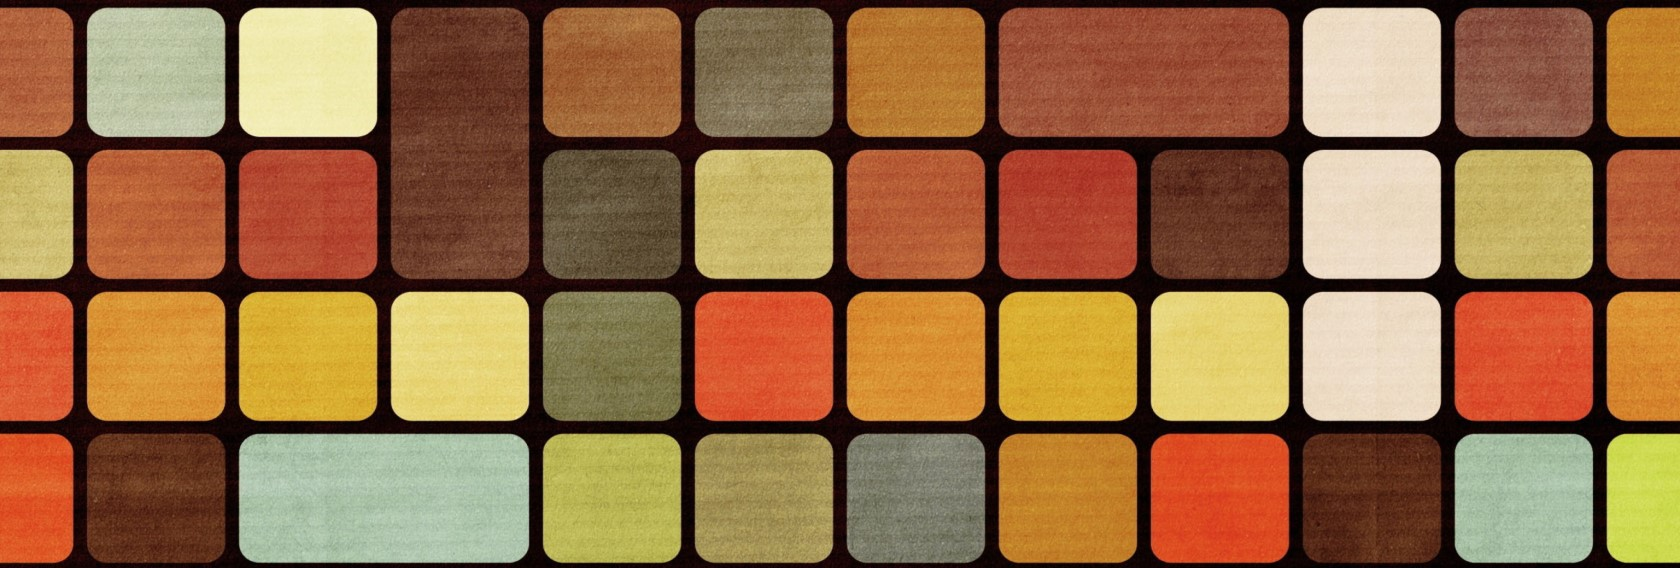
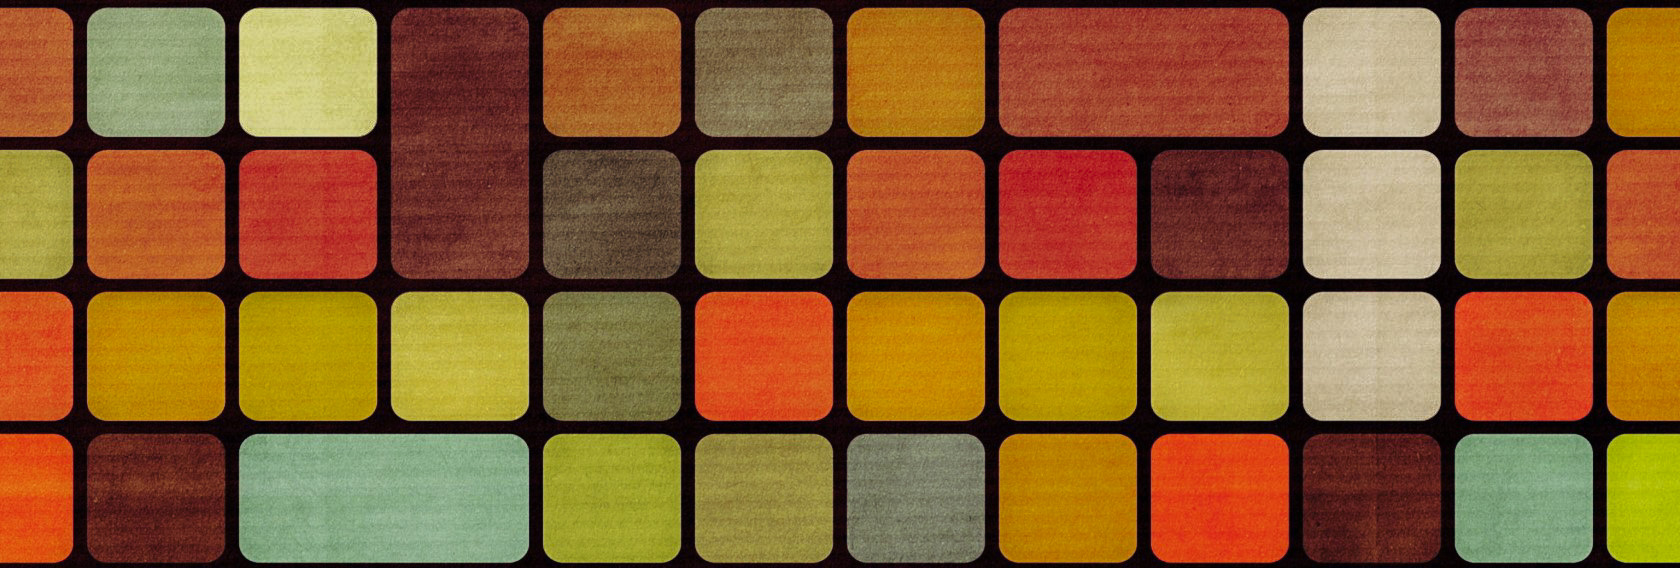
Confirmar

diff --git a/styles/style.css b/styles/style.css
@@ -2,15 +2,13 @@ html {
     font-size: 20px; /* px quiere decir 'píxeles': el tamaño de la fuente base es ahora de 10 píxeles de altura */
     font-family: 'Roboto Serif', serif; /* Este debe ser el resto del resultado que obtuviste de Google fonts */
     background-image: url("../images/background.jpg");
-    background-size: 100%;
+    background-size: 500px;
     background-attachment: fixed;
 }
 
 h1 {
     margin: 0;
     padding: 20px 0;
-    color: #00539F;
-    text-shadow: 3px 3px 1px black;
     text-align: center;
 }
 
@@ -23,7 +21,8 @@ p {
 div.body{
     min-width: 300px;
     margin: 0 10%;
-    background-color: #bd9358;
+    
+    background-color: #ffbb9c;
     padding: 20px 20px 20px 20px;
     border: 10px solid black;
 }
@@ -36,7 +35,7 @@ img {
 div.algoritmo {
     width: 200px;
     min-height: 270px;
-    background-color: #f3d4a9;
+    background-color: #ffddcd;
     border: 5px solid black;
     margin: 5px auto;
     display: inline-block;
